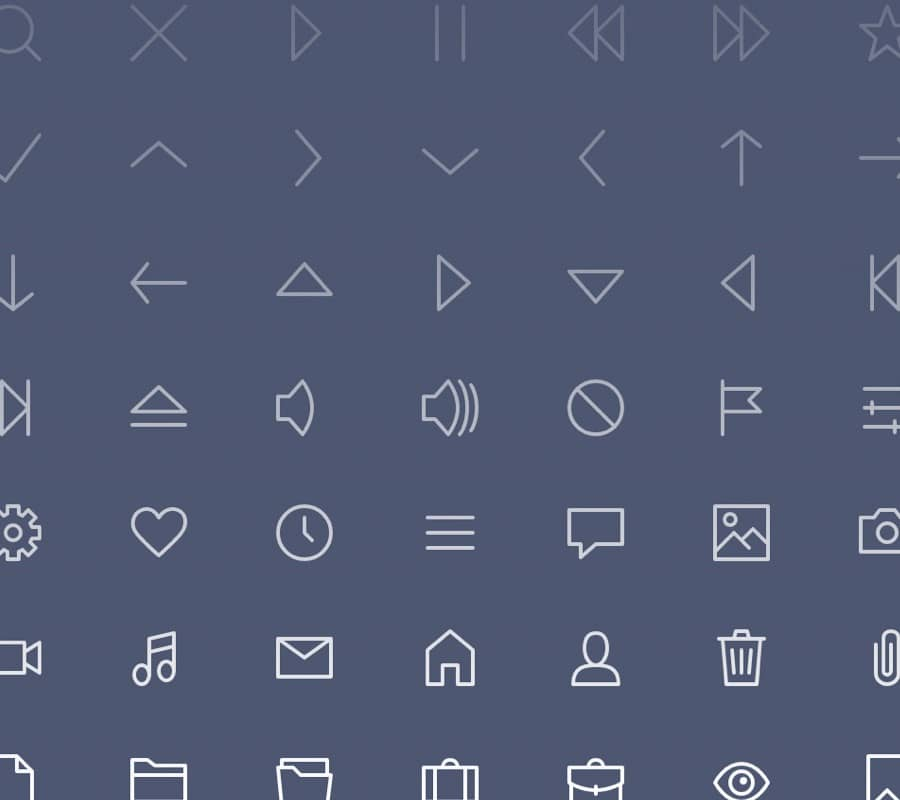
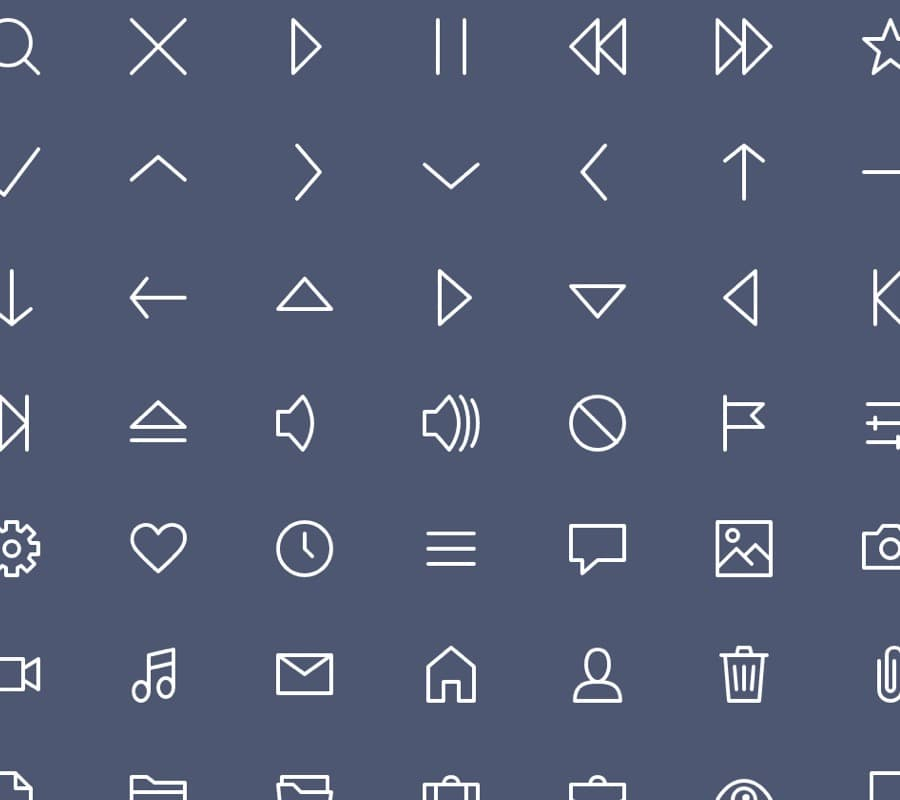
Color banding cannot be unseen... remove gradient.

diff --git a/work/_posts/2016-06-01-bytesize.md b/work/_posts/2016-06-01-bytesize.md
@@ -6,7 +6,7 @@ year:           2016
 role:           Creator
 color:          "77, 87, 114"
 cover-image:    /img/work/bytesize/bytesize-cover.jpg
-hero-image:     /img/work/bytesize/bytesize-hero.png
+hero-image:     /img/work/bytesize/bytesize-hero.jpg
 hero-position:  center bottom
 hero-repeat:    repeat-x
 permalink:      /bytesize-icons/
